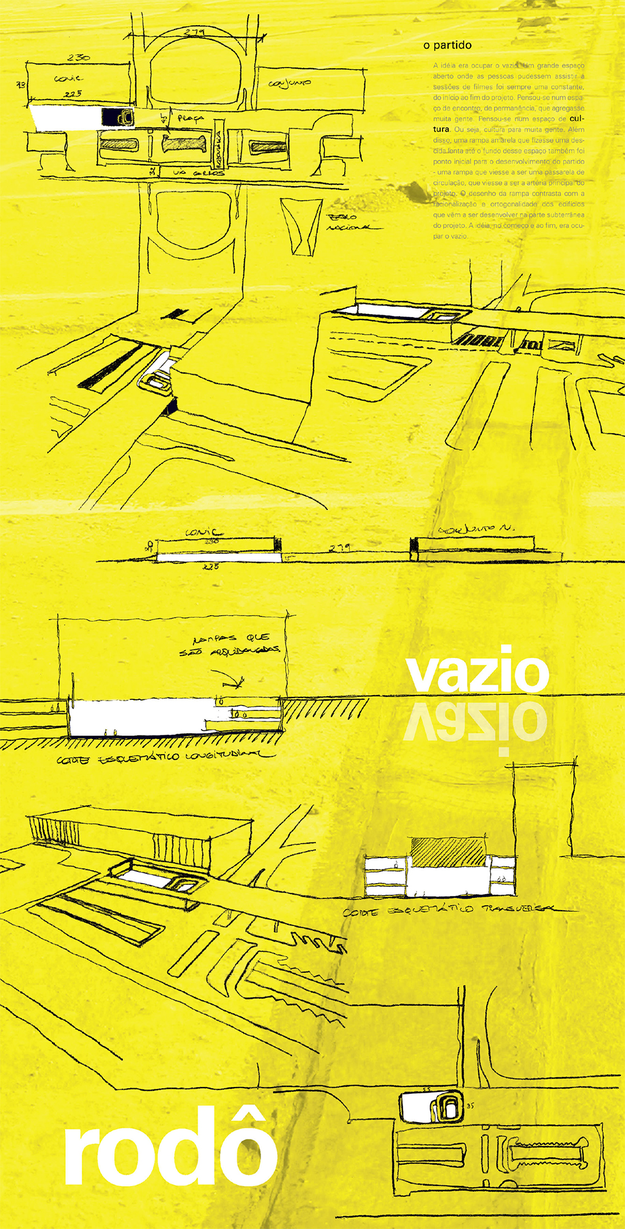
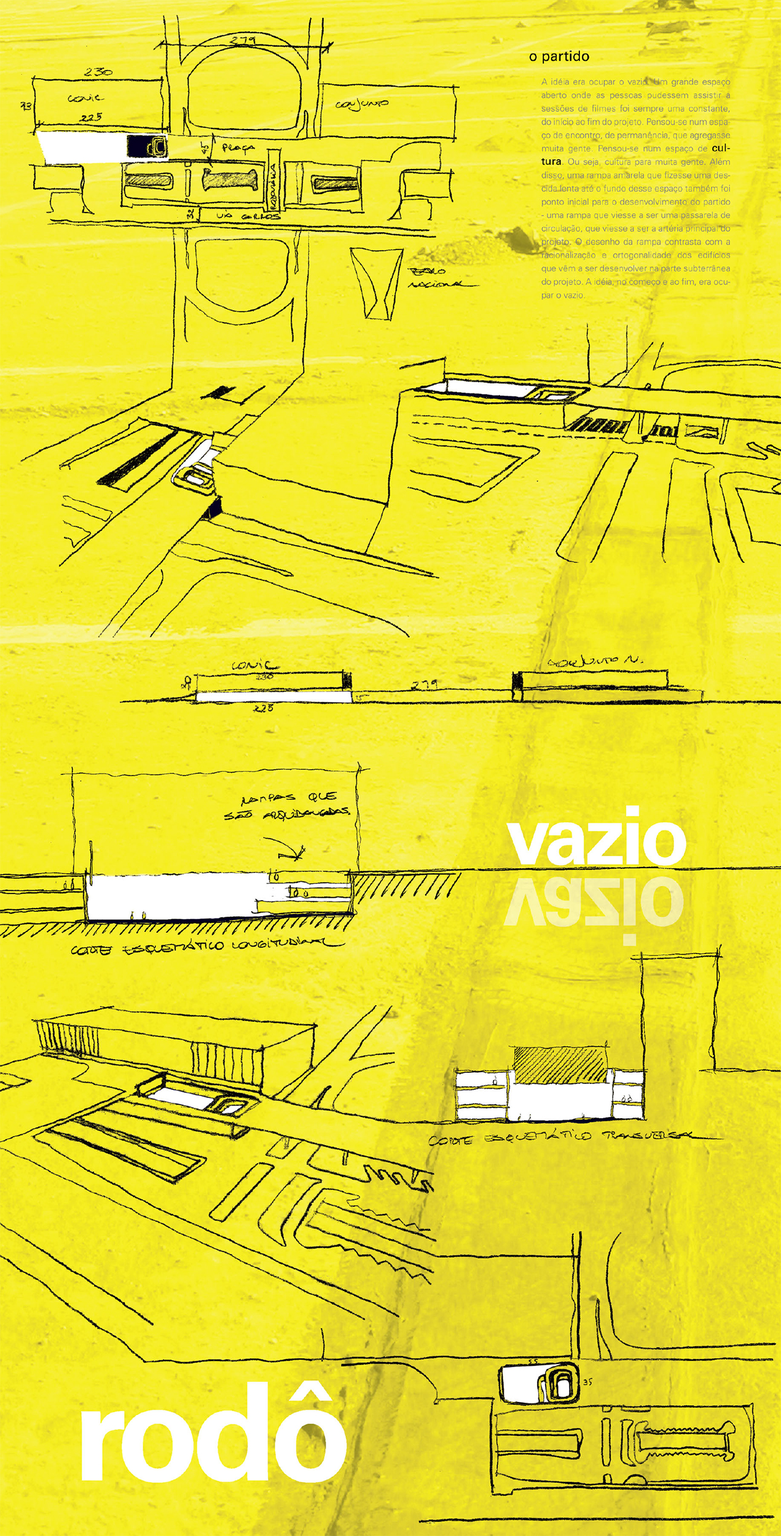
adds zoom to cine rodoviaria

diff --git a/_posts/2016-08-22-cine-rodoviaria.html b/_posts/2016-08-22-cine-rodoviaria.html
@@ -17,13 +17,17 @@ time: 12:22:53
     <div class="row">
       <div class="col-sm-6 col-md-5 col-md-offset-1">
         <div class="img-wrapper">
-          <img class="img-responsive" src="/media/cine-rodoviaria/1.5.jpg"/>
+          <a href="/media/cine-rodoviaria/1.5.jpg" data-lightbox="cr">
+            <img class="img-responsive" src="/media/cine-rodoviaria/1.5-small.jpg"/>
+          </a>
           <div class="number">.01</div>
         </div>
       </div>
       <div class="col-sm-6 col-md-5">
         <div class="img-wrapper">
-          <img class="img-responsive" src="/media/cine-rodoviaria/2.5.jpg"/>
+          <a href="/media/cine-rodoviaria/2.5.jpg" data-lightbox="cr">
+            <img class="img-responsive" src="/media/cine-rodoviaria/2.5-small.jpg"/>
+          </a>
           <div class="number">.02</div>
         </div>
       </div>
@@ -32,13 +36,17 @@ time: 12:22:53
     <div class="row">
       <div class="col-sm-6 col-md-5 col-md-offset-1">
         <div class="img-wrapper">
-          <img class="img-responsive" src="/media/cine-rodoviaria/1.0.jpg"/>
+          <a href="/media/cine-rodoviaria/1.0.jpg" data-lightbox="cr">
+            <img class="img-responsive" src="/media/cine-rodoviaria/1.0-small.jpg"/>
+          </a>
           <div class="number">.03</div>
         </div>
       </div>
       <div class="col-sm-6 col-md-5">
         <div class="img-wrapper">
-          <img class="img-responsive" src="/media/cine-rodoviaria/2.0.jpg"/>
+          <a href="/media/cine-rodoviaria/2.0.jpg" data-lightbox="cr">
+            <img class="img-responsive" src="/media/cine-rodoviaria/2.0-small.jpg"/>
+          </a>
           <div class="number">.04</div>
         </div>
       </div>
@@ -47,13 +55,17 @@ time: 12:22:53
     <div class="row">
       <div class="col-sm-6 col-md-5 col-md-offset-1">
         <div class="img-wrapper">
-          <img class="img-responsive" src="/media/cine-rodoviaria/3.5.jpg"/>
+          <a href="/media/cine-rodoviaria/3.5.jpg" data-lightbox="cr">
+            <img class="img-responsive" src="/media/cine-rodoviaria/3.5-small.jpg"/>
+          </a>
           <div class="number">.05</div>
         </div>
       </div>
       <div class="col-sm-6 col-md-5">
         <div class="img-wrapper">
-          <img class="img-responsive" src="/media/cine-rodoviaria/4.5.jpg"/>
+          <a href="/media/cine-rodoviaria/4.5.jpg" data-lightbox="cr">
+            <img class="img-responsive" src="/media/cine-rodoviaria/4.5-small.jpg"/>
+          </a>
           <div class="number">.06</div>
         </div>
       </div>
@@ -62,13 +74,17 @@ time: 12:22:53
     <div class="row">
       <div class="col-sm-6 col-md-5 col-md-offset-1">
         <div class="img-wrapper">
-          <img class="img-responsive" src="/media/cine-rodoviaria/3.0.jpg"/>
+          <a href="/media/cine-rodoviaria/3.0.jpg" data-lightbox="cr">
+            <img class="img-responsive" src="/media/cine-rodoviaria/3.0-small.jpg"/>
+          </a>
           <div class="number">.07</div>
         </div>
       </div>
       <div class="col-sm-6 col-md-5">
         <div class="img-wrapper">
-          <img class="img-responsive" src="/media/cine-rodoviaria/4.0.jpg"/>
+          <a href="/media/cine-rodoviaria/4.0.jpg" data-lightbox="cr">
+            <img class="img-responsive" src="/media/cine-rodoviaria/4.0-small.jpg"/>
+          </a>
           <div class="number">.08</div>
         </div>
       </div>
@@ -77,7 +93,9 @@ time: 12:22:53
     <div class="row">
       <div class="col-sm-6 col-md-5 col-md-offset-1">
         <div class="img-wrapper img-wrapper-last">
-          <img class="img-responsive" src="/media/cine-rodoviaria/5.0.jpg"/>
+          <a href="/media/cine-rodoviaria/5.0.jpg" data-lightbox="cr">
+            <img class="img-responsive" src="/media/cine-rodoviaria/5.0-small.jpg"/>
+          </a>
           <div class="number">.09</div>
         </div>
       </div>
@@ -87,6 +105,16 @@ time: 12:22:53
 
 </section>
 
-<script type="text/javascript">
+<script src="/js/lightbox.js"></script>
+<script>
+
+  $(document).ready(function() {
+
+    lightbox.option({
+      'disableScrolling':true,
+      'wrapAround': true
+    })
+
+  });
 
 </script>
